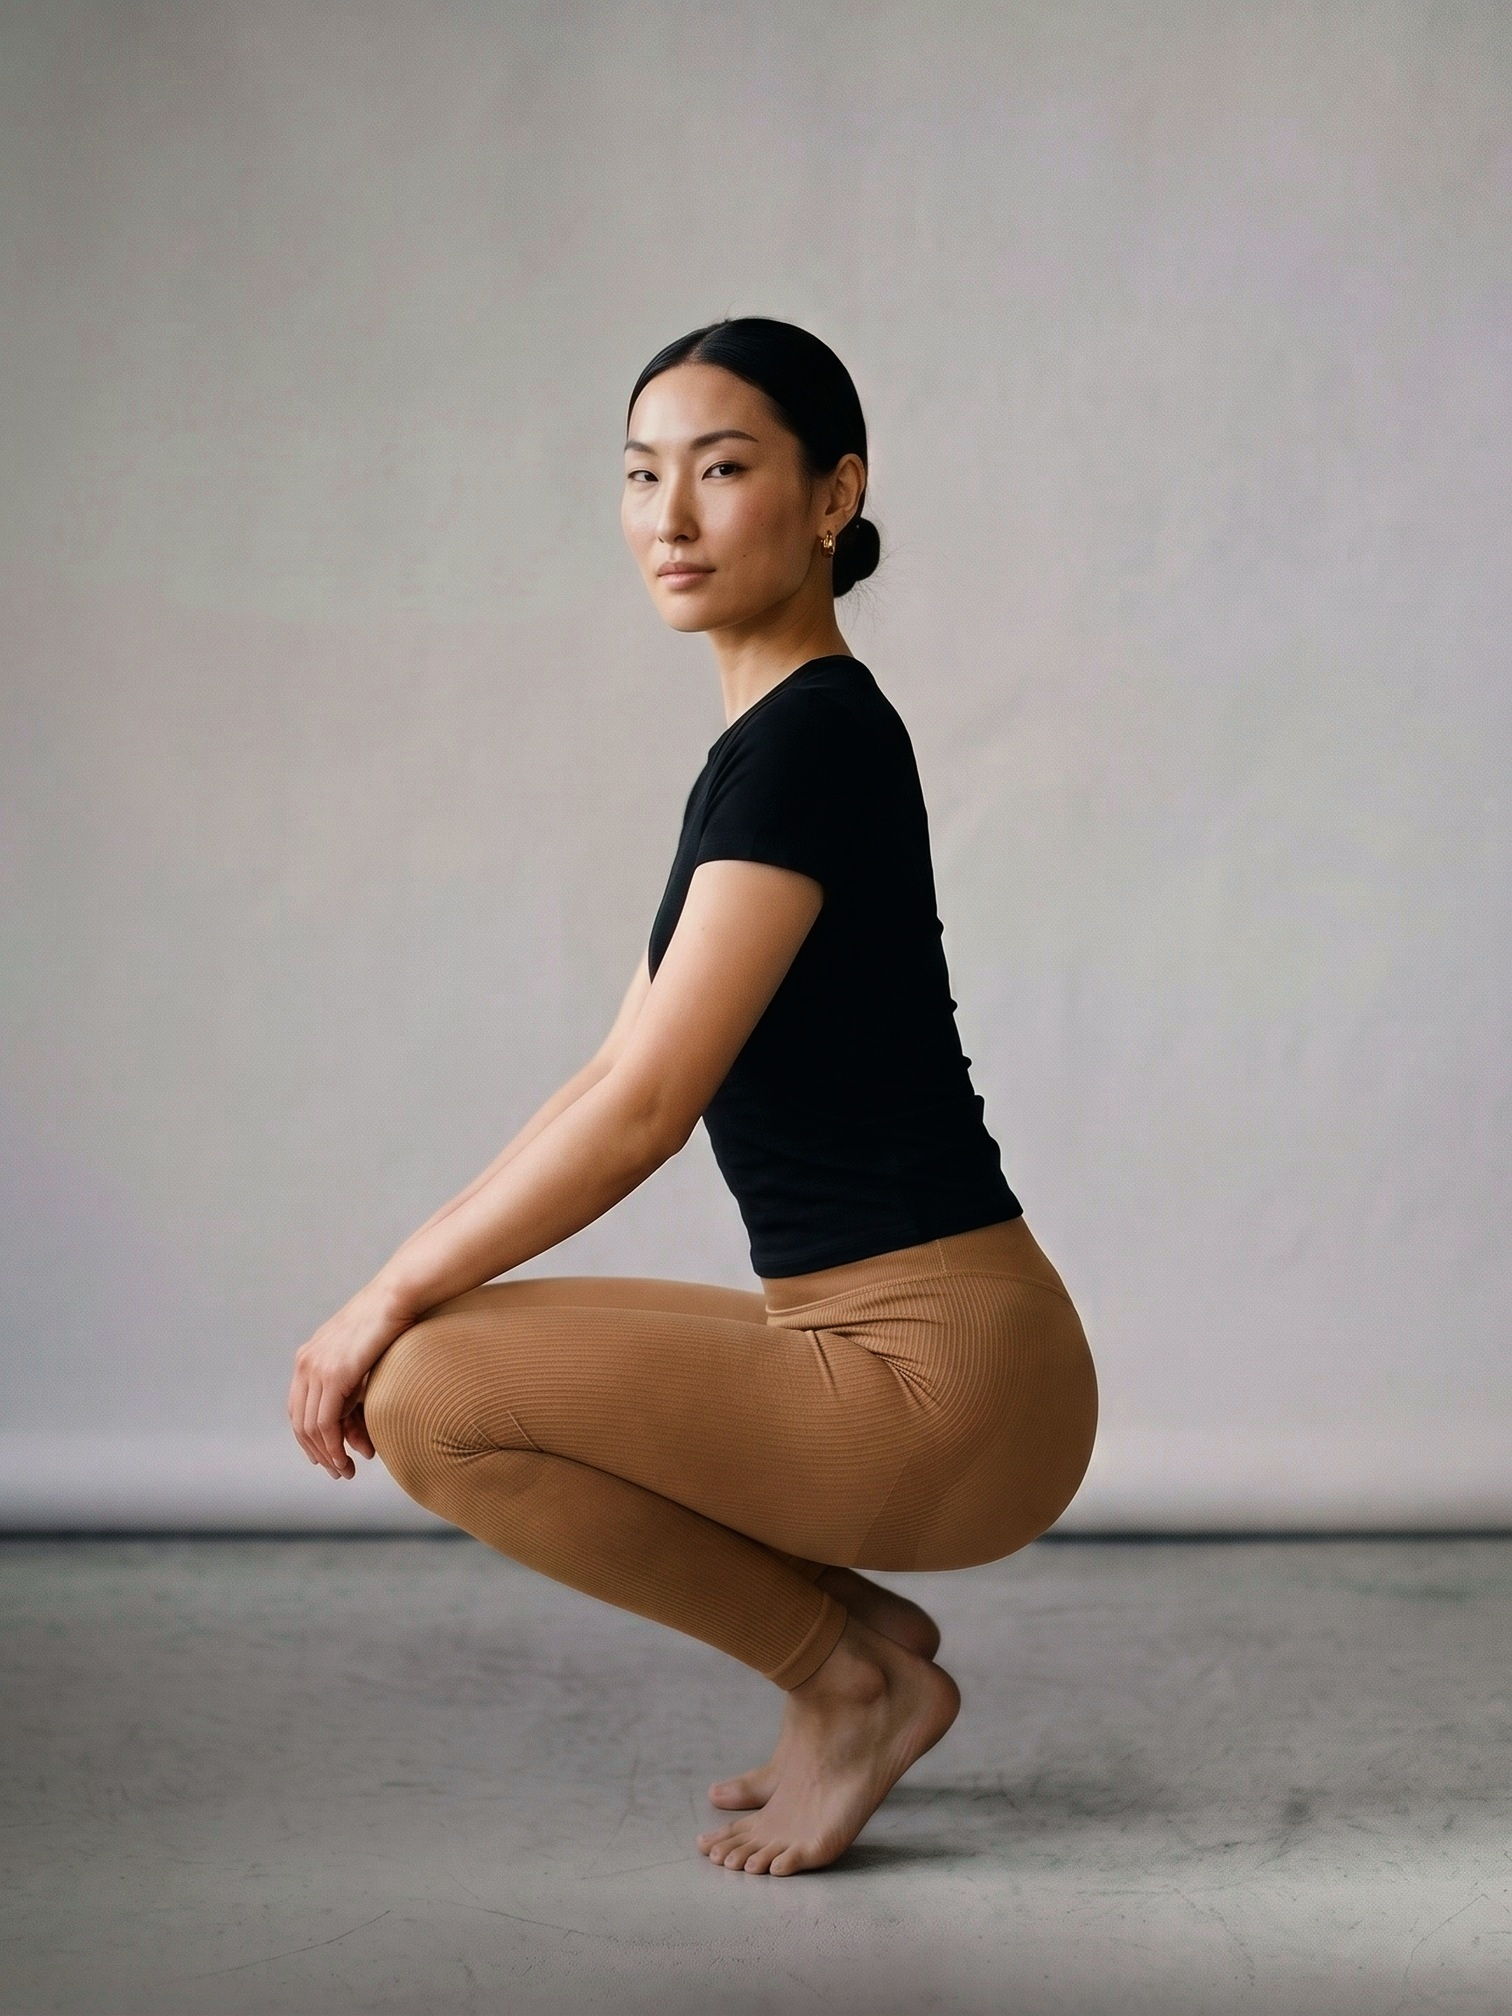
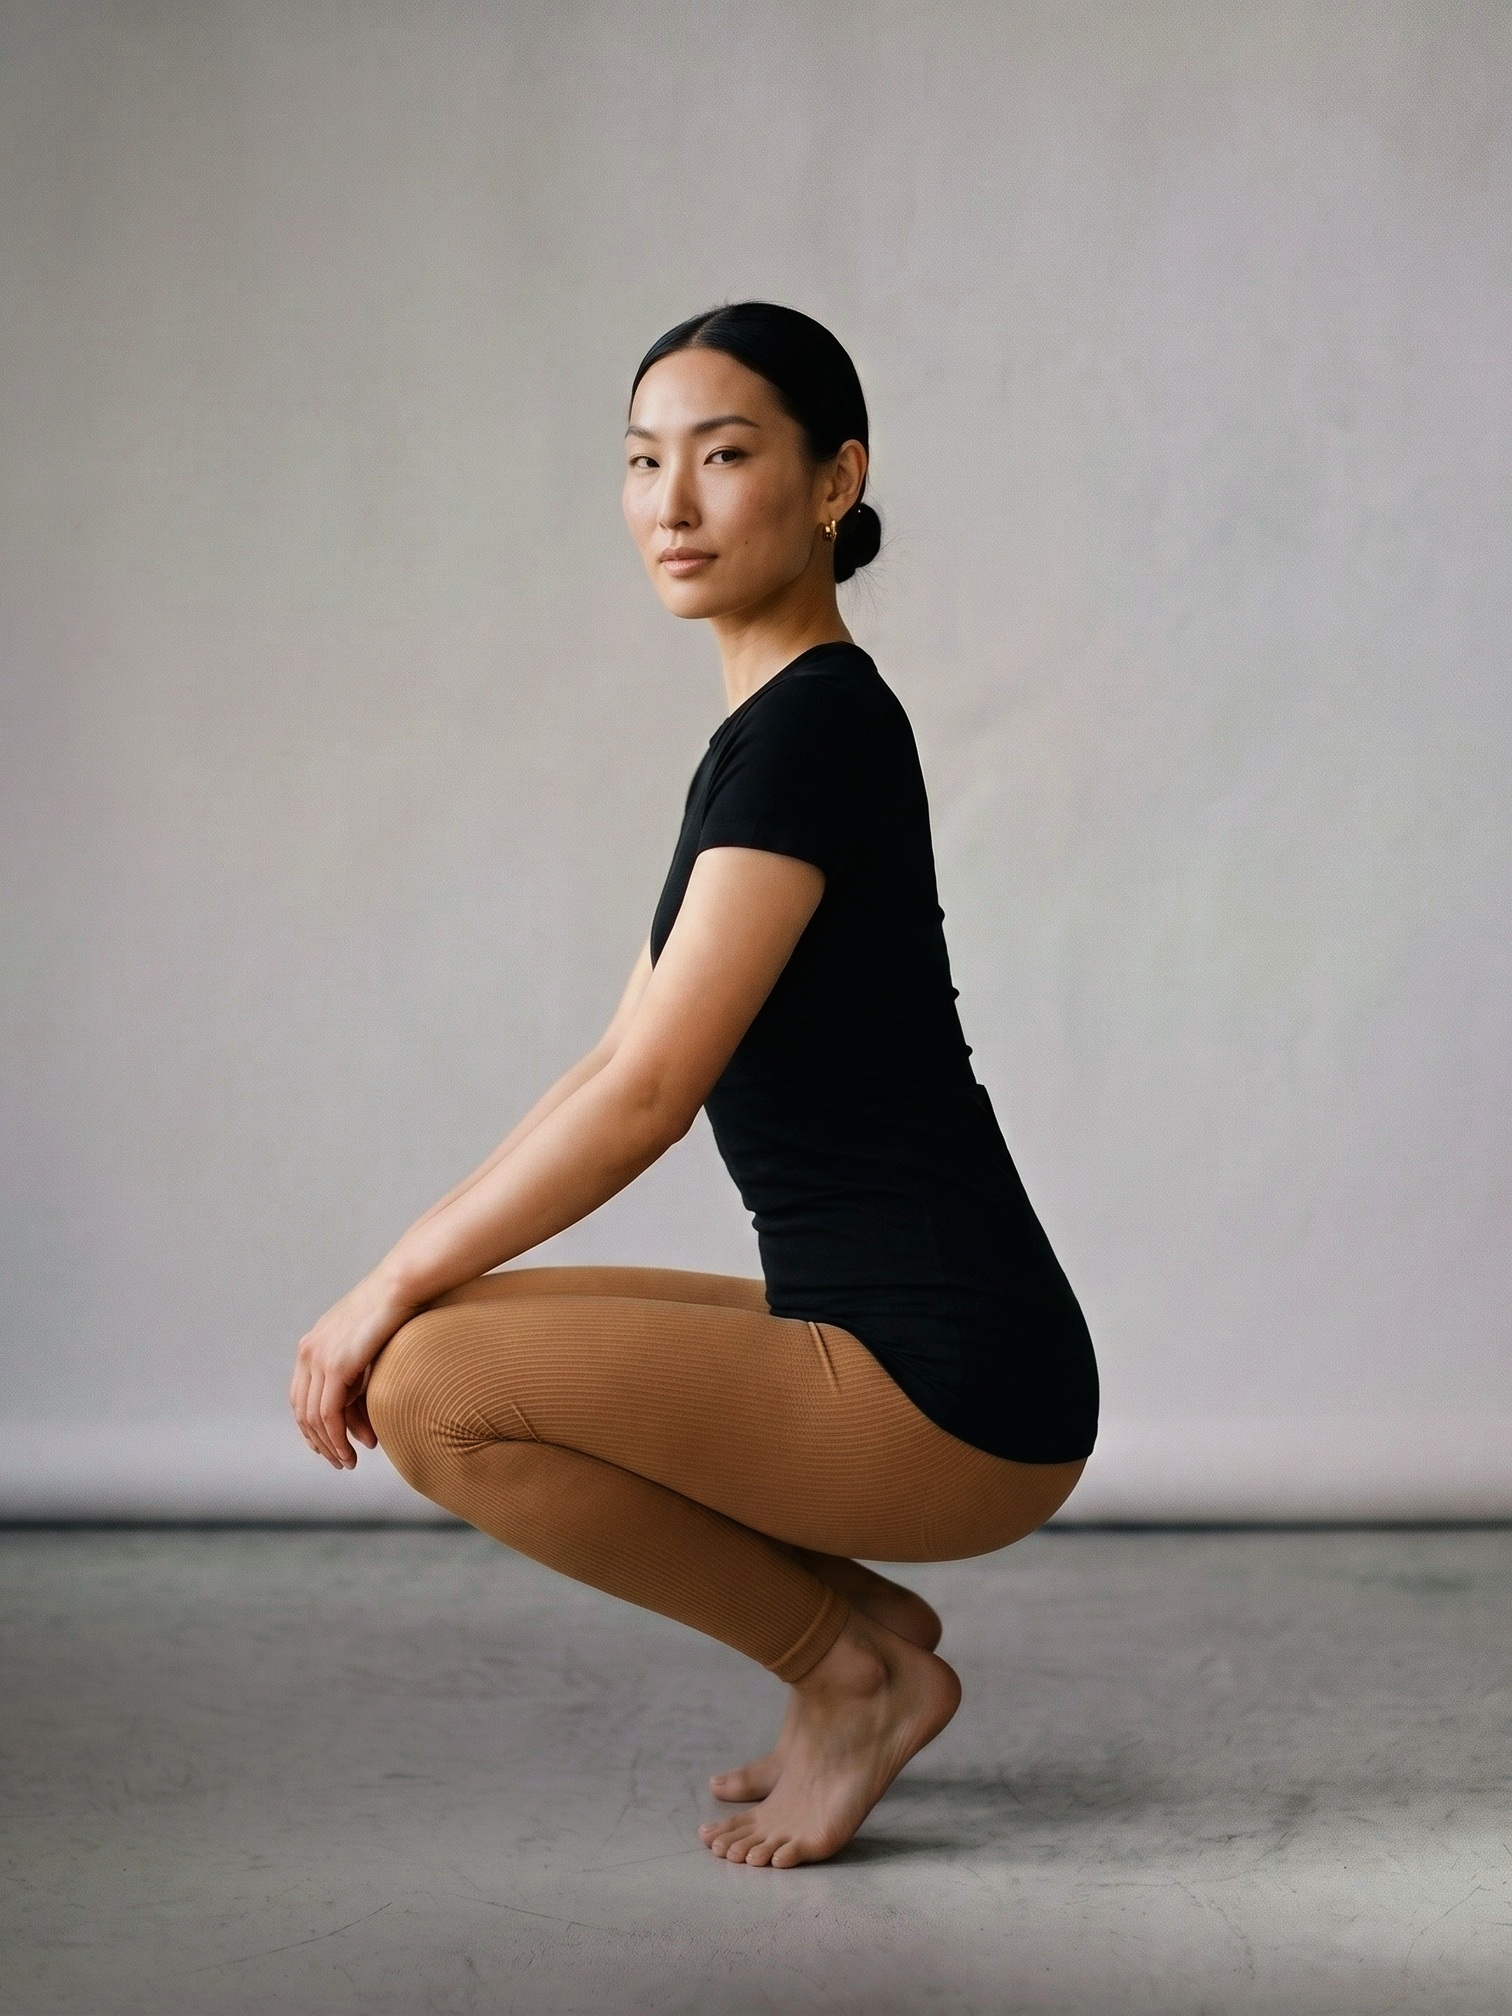
Sand legging proof shot: fix2 (tee stays black), products.js?v=43
Claude-Session: https://claude.ai/code/session_01TH6XjwVeudERd93hT9p8gq

diff --git a/assets/products.js b/assets/products.js
@@ -80,7 +80,7 @@ window.COVERLINE_PRODUCTS = [
     care: "Seamless stretch knit. Machine wash cold, hang or lay flat to dry. Skip the tumble dryer — it\'s what kills the stretch in every pair you\'ve owned before.",
     colors: [
       { key: "black", label: "Black", hex: "#25272a", image: "/assets/product-images/legging-black.jpg?v=39", images: ["/assets/product-images/legging-black.jpg?v=39", "/assets/product-images/legging-black-proof.jpg?v=39", "/assets/product-images/legging-black-back.jpg?v=39", "/assets/product-images/legging-black-detail.jpg?v=39"] },
-      { key: "nude", label: "Sand", hex: "#c9a888", image: "/assets/product-images/legging-nude.jpg?v=42", images: ["/assets/product-images/legging-nude.jpg?v=42", "/assets/product-images/legging-nude-proof.jpg?v=42", "/assets/product-images/legging-nude-back.jpg?v=42", "/assets/product-images/legging-nude-detail.jpg?v=42"] }
+      { key: "nude", label: "Sand", hex: "#c9a888", image: "/assets/product-images/legging-nude.jpg?v=43", images: ["/assets/product-images/legging-nude.jpg?v=43", "/assets/product-images/legging-nude-proof.jpg?v=43", "/assets/product-images/legging-nude-back.jpg?v=43", "/assets/product-images/legging-nude-detail.jpg?v=43"] }
     ],
     image: "/assets/product-images/legging-black.jpg?v=39",
     swatch: function(){ return '<rect width="300" height="400" fill="var(--paper-raised)"/><path d="M0,240 C 100,300 200,200 300,260 L300,400 L0,400 Z" fill="var(--accent-2)" opacity=".5"/><path d="M0,150 C 110,90 190,210 300,160" fill="none" stroke="var(--accent)" stroke-width="1"/>'; }

diff --git a/product.html b/product.html
@@ -75,7 +75,7 @@
   </div>
 </footer>
 
-<script src="/assets/products.js?v=42"></script>
+<script src="/assets/products.js?v=43"></script>
 <script src="/assets/sizecharts.js?v=2"></script>
 <script src="/assets/reviews.js?v=1"></script>
 <script src="/assets/config.js?v=4"></script>

diff --git a/index.html b/index.html
@@ -100,7 +100,7 @@
   </div>
 </footer>
 
-<script src="/assets/products.js?v=42"></script>
+<script src="/assets/products.js?v=43"></script>
 <script src="/assets/config.js?v=4"></script>
 <script src="/assets/cart.js?v=10"></script>
 <script>

diff --git a/review.html b/review.html
@@ -74,7 +74,7 @@
   </div>
 </footer>
 
-<script src="/assets/products.js?v=42"></script>
+<script src="/assets/products.js?v=43"></script>
 <script src="/assets/config.js?v=4"></script>
 <script src="/assets/cart.js?v=10"></script>
 <script>

diff --git a/404.html b/404.html
@@ -46,7 +46,7 @@
   </div>
 </footer>
 
-<script src="/assets/products.js?v=42"></script>
+<script src="/assets/products.js?v=43"></script>
 <script src="/assets/config.js?v=4"></script>
 <script src="/assets/cart.js?v=10"></script>
 </body>

diff --git a/privacy.html b/privacy.html
@@ -85,7 +85,7 @@
   </div>
 </footer>
 
-<script src="/assets/products.js?v=42"></script>
+<script src="/assets/products.js?v=43"></script>
 <script src="/assets/config.js?v=4"></script>
 <script src="/assets/cart.js?v=10"></script>
 </body>

diff --git a/shipping-returns.html b/shipping-returns.html
@@ -78,7 +78,7 @@
   </div>
 </footer>
 
-<script src="/assets/products.js?v=42"></script>
+<script src="/assets/products.js?v=43"></script>
 <script src="/assets/config.js?v=4"></script>
 <script src="/assets/cart.js?v=10"></script>
 </body>

diff --git a/terms.html b/terms.html
@@ -92,7 +92,7 @@
   </div>
 </footer>
 
-<script src="/assets/products.js?v=42"></script>
+<script src="/assets/products.js?v=43"></script>
 <script src="/assets/config.js?v=4"></script>
 <script src="/assets/cart.js?v=10"></script>
 </body>
